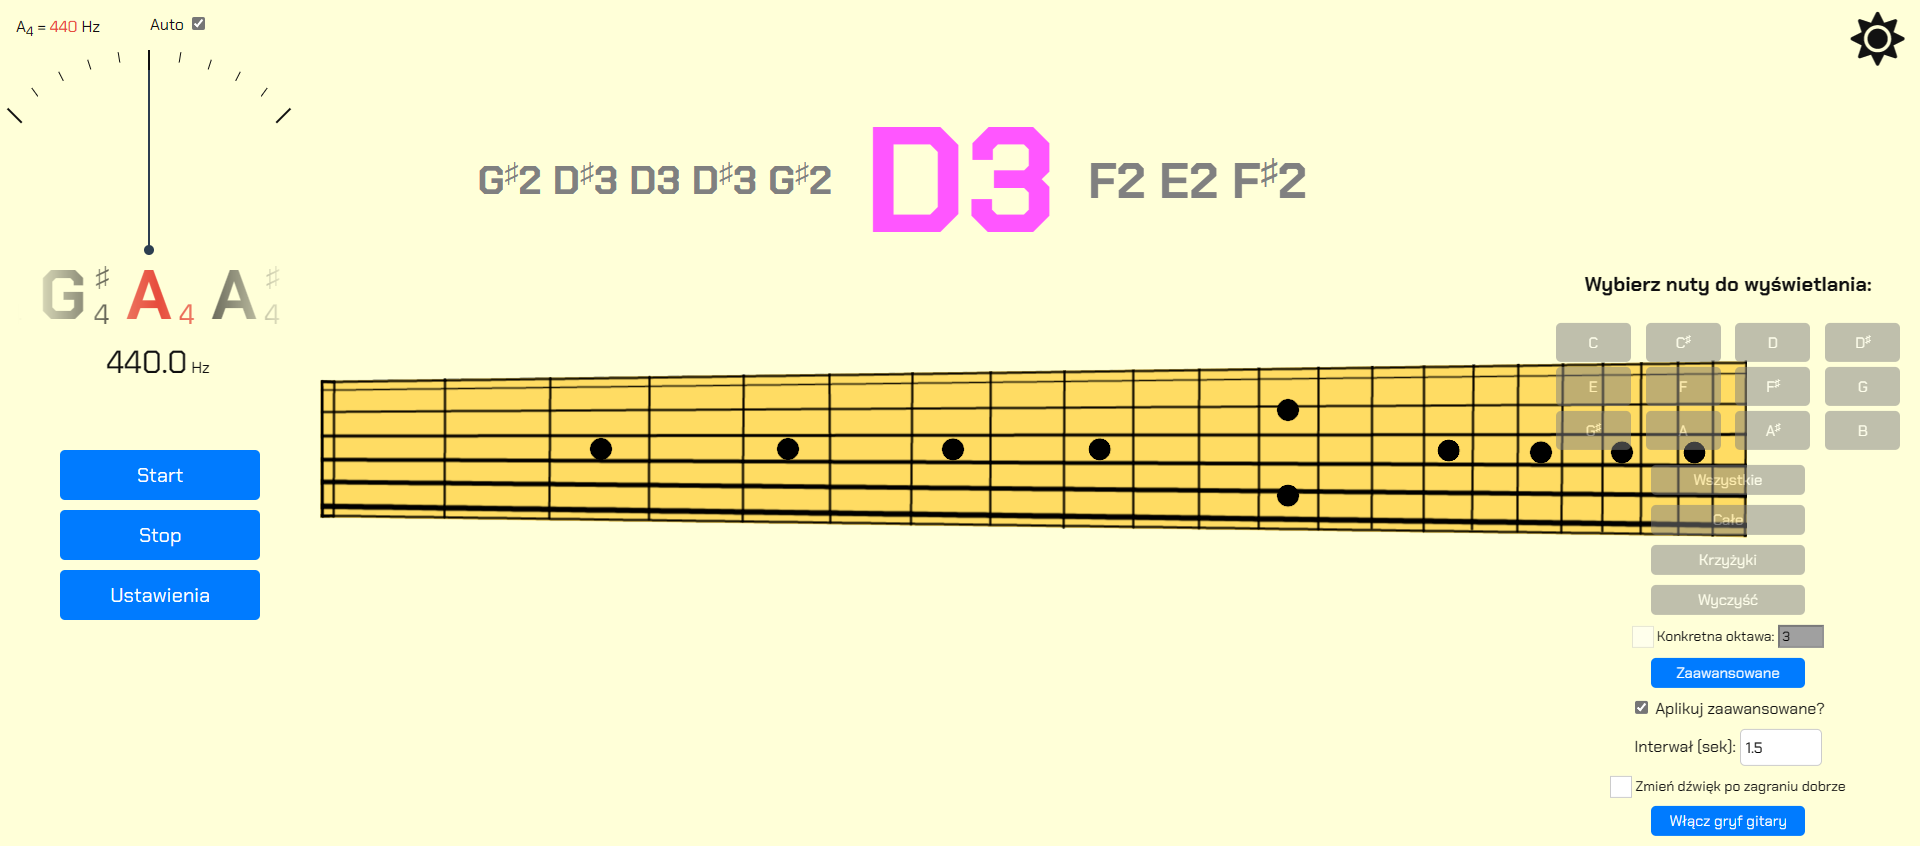
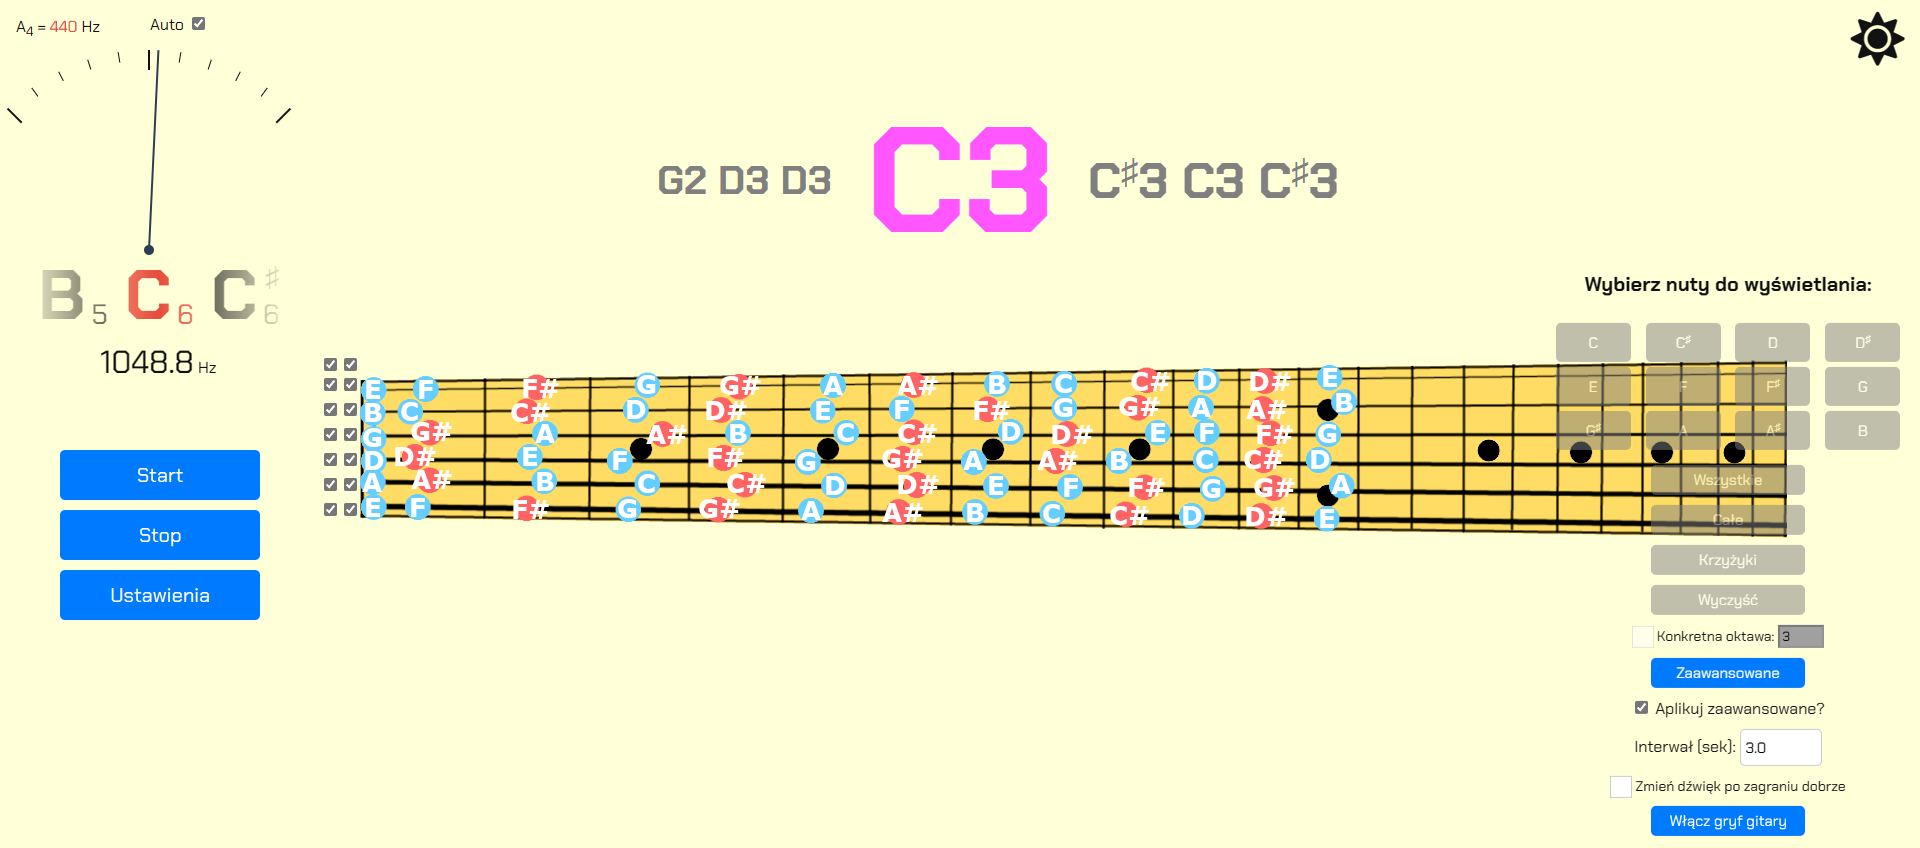
nowa wersja note mastera

diff --git a/note_master/index.html b/note_master/index.html
@@ -105,9 +105,65 @@
 
 
 
-  <div class="fretboard" id="fretboardContainer" style="display: none;">
+  <div class="fretboard" id="fretboardContainer">
     <img src="img/fretboard.png" alt="fretboard">
+    <img class="notes-image" src="img/6th-string-wholes.png" alt="6th-string-wholes" id="6th-string-wholes">
+    <img class="notes-image" src="img/6th-string-sharps.png" alt="6th-string-sharps" id="6th-string-sharps">
+    <img class="notes-image" src="img/5th-string-wholes.png" alt="5th-string-wholes" id="5th-string-wholes">
+    <img class="notes-image" src="img/5th-string-sharps.png" alt="5th-string-sharps" id="5th-string-sharps">
+    <img class="notes-image" src="img/4th-string-wholes.png" alt="4th-string-wholes" id="4th-string-wholes">
+    <img class="notes-image" src="img/4th-string-sharps.png" alt="4th-string-sharps" id="4th-string-sharps">
+    <img class="notes-image" src="img/3rd-string-wholes.png" alt="3rd-string-wholes" id="3rd-string-wholes">
+    <img class="notes-image" src="img/3rd-string-sharps.png" alt="3rd-string-sharps" id="3rd-string-sharps">
+    <img class="notes-image" src="img/2nd-string-wholes.png" alt="2nd-string-wholes" id="2nd-string-wholes">
+    <img class="notes-image" src="img/2nd-string-sharps.png" alt="2nd-string-sharps" id="2nd-string-sharps">
+    <img class="notes-image" src="img/1st-string-wholes.png" alt="1st-string-wholes" id="1st-string-wholes">
+    <img class="notes-image" src="img/1st-string-sharps.png" alt="1st-string-sharps" id="1st-string-sharps">
+    <nav class="option7t">
+      <input type="checkbox" id="toggleWholeCheckbox" onchange="toggleAndCheck(this)" checked>
+      <label for="toggleWholeCheckbox"></label>
+
+      <input type="checkbox" id="toggleSharpCheckbox" onchange="toggleAndCheck2(this)" checked>
+      <label for="toggleSharpCheckbox"></label>
+    </nav>
+    <nav class="option6t">
+      <input type="checkbox" id="stringHighECheckboxToggle" checked>
+      <label for="stringHighECheckboxToggle"></label>
+      <input type="checkbox" id="stringHighECheckboxToggle2" checked>
+      <label for="stringHighECheckboxToggle2"></label>
+    </nav>
+    <nav class="option5t">
+      <input type="checkbox" id="stringBCheckboxToggle" checked>
+      <label for="stringBCheckboxToggle"></label>
+      <input type="checkbox" id="stringBCheckboxToggle2" checked>
+      <label for="stringBCheckboxToggle2"></label>
+    </nav>
+    <nav class="option4t">
+      <input type="checkbox" id="stringGCheckboxToggle" checked>
+      <label for="stringGCheckboxToggle"></label>
+      <input type="checkbox" id="stringGCheckboxToggle2" checked>
+      <label for="stringGCheckboxToggle2"></label>
+    </nav>
+    <nav class="option3t">
+      <input type="checkbox" id="stringDCheckboxToggle" checked>
+      <label for="stringDCheckboxToggle"></label>
+      <input type="checkbox" id="stringDCheckboxToggle2" checked>
+      <label for="stringDCheckboxToggle2"></label>
+    </nav>
+    <nav class="option2t">
+      <input type="checkbox" id="stringACheckboxToggle" checked>
+      <label for="stringACheckboxToggle"></label>
+      <input type="checkbox" id="stringACheckboxToggle2" checked>
+      <label for="stringACheckboxToggle2"></label>
+    </nav>
+    <nav class="option1t">
+      <input type="checkbox" id="stringECheckboxToggle" checked>
+      <label for="stringECheckboxToggle"></label>
+      <input type="checkbox" id="stringECheckboxToggle2" checked>
+      <label for="stringECheckboxToggle2"></label>
+    </nav>
   </div>
+
 
 
   <div id="advancedSettingsWindow" class="modal">
@@ -168,6 +224,7 @@
   <script src="scripts/toggle-settings.js"></script>
   <script src="scripts/advanced-settings.js"></script>
   <script src="scripts/select-instruments.js"></script>
+  <script src="scripts/fretboard.js"></script>
 
   <script src="https://cdn.jsdelivr.net/npm/sweetalert2@9"></script>
   <script src="https://cdn.jsdelivr.net/npm/aubiojs@0.1.1/build/aubio.min.js"></script>

diff --git a/note_master/scripts/fretboard.js b/note_master/scripts/fretboard.js
@@ -1,0 +1,64 @@
+// create an event listener and displays or hides specific notes for each string
+function handleCheckboxChange(checkboxId, imageId) {
+    const checkbox = document.getElementById(checkboxId);
+    const stringImage = document.getElementById(imageId);
+    console.log("Checkbox:", checkbox);
+    console.log("Image:", stringImage);
+    checkbox.addEventListener('change', function () {
+        console.log("Checkbox state changed:", checkbox.checked);
+        stringImage.style.display = checkbox.checked ? "inline" : "none";
+        console.log("Image display:", stringImage.style.display);
+    });
+}
+
+handleCheckboxChange("stringECheckboxToggle", "1st-string-wholes");
+handleCheckboxChange("stringECheckboxToggle2", "1st-string-sharps");
+handleCheckboxChange("stringACheckboxToggle", "2nd-string-wholes");
+handleCheckboxChange("stringACheckboxToggle2", "2nd-string-sharps");
+handleCheckboxChange("stringDCheckboxToggle", "3rd-string-wholes");
+handleCheckboxChange("stringDCheckboxToggle2", "3rd-string-sharps");
+handleCheckboxChange("stringGCheckboxToggle", "4th-string-wholes");
+handleCheckboxChange("stringGCheckboxToggle2", "4th-string-sharps");
+handleCheckboxChange("stringBCheckboxToggle", "5th-string-wholes");
+handleCheckboxChange("stringBCheckboxToggle2", "5th-string-sharps");
+handleCheckboxChange("stringHighECheckboxToggle", "6th-string-wholes");
+handleCheckboxChange("stringHighECheckboxToggle2", "6th-string-sharps");
+
+function toggleVisibility(noteType, checkbox) {
+    var notesImages = document.getElementsByClassName("notes-image");
+    for (var i = 0; i < notesImages.length; i++) {
+        if (notesImages[i].id.includes(noteType)) {
+            notesImages[i].style.display = checkbox.checked ? "inline-block" : "none";
+        }
+    }
+}
+
+function toggleAllCheckboxes(checkbox) {
+    var otherCheckboxes = document.querySelectorAll('[id^="string"]:not([id*="2"])');
+
+    otherCheckboxes.forEach(function (cb) {
+        if (cb !== checkbox) {
+            cb.checked = checkbox.checked;
+        }
+    });
+}
+
+function toggleAndCheck(checkbox) {
+    toggleVisibility('string-wholes', checkbox);
+    toggleAllCheckboxes(checkbox);
+}
+
+function toggleAllCheckboxes2(checkbox) {
+    var otherCheckboxes = document.querySelectorAll('[id^="string"][id*="2"]');
+
+    otherCheckboxes.forEach(function (cb) {
+        if (cb !== checkbox) {
+            cb.checked = checkbox.checked;
+        }
+    });
+}
+
+function toggleAndCheck2(checkbox) {
+    toggleVisibility('string-sharps', checkbox);
+    toggleAllCheckboxes2(checkbox);
+}

diff --git a/note_master/styles/fretboard.css b/note_master/styles/fretboard.css
@@ -1,4 +1,58 @@
 .fretboard {
-width: 20px;
+    width: 20px;
+    /* display: none; */
+    position: relative;
+}
 
+.fretboard img {
+    position: absolute;
+    top: 0;
+    left: 40px;
+}
+
+.notes-image {
+    position: absolute;
+    top: 0;
+    left: 0;
+    /* display: none; */
+}
+
+.option1t,
+.option2t,
+.option3t,
+.option4t,
+.option5t,
+.option6t,
+.option7t {
+    display: flex;
+    position: absolute;
+
+}
+
+.option1t {
+    top: 140px;
+}
+
+.option2t {
+    top: 115px;
+}
+
+.option3t {
+    top: 90px;
+}
+
+.option4t {
+    top: 65px;
+}
+
+.option5t {
+    top: 40px;
+}
+
+.option6t {
+    top: 15px;
+}
+
+.option7t {
+    top: -5px;
 }

diff --git a/note_master/styles/mobile-style.css b/note_master/styles/mobile-style.css
@@ -39,7 +39,7 @@
 
     .settings {
         right: -100vw;
-        margin-top: 430px;
+        margin-top: 480px;
         position: absolute;
         width: 100vw;
         overflow-x: hidden;
@@ -87,6 +87,7 @@
 
     
 .start-stop>button {
+    z-index: 2;
     font-size: 3vh;
 }
 }

diff --git a/note_master/styles/style.css b/note_master/styles/style.css
@@ -65,6 +65,7 @@ body {
 
 
 .settings {
+    z-index: 1;
     position: fixed;
     text-align: center;
     right: -20vw;
